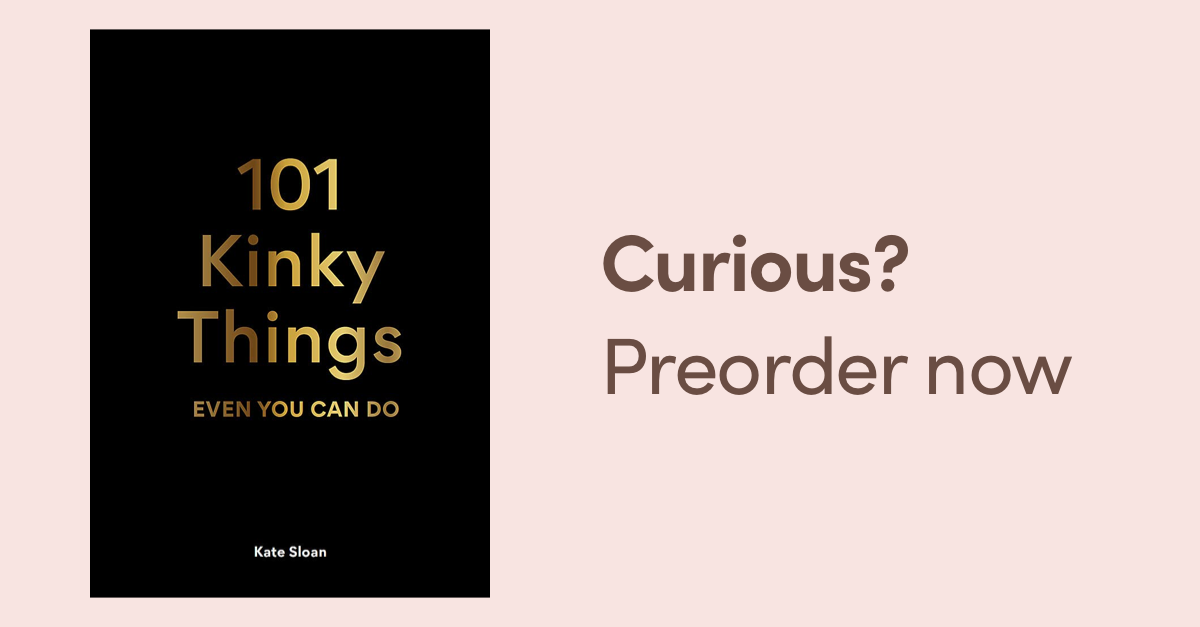
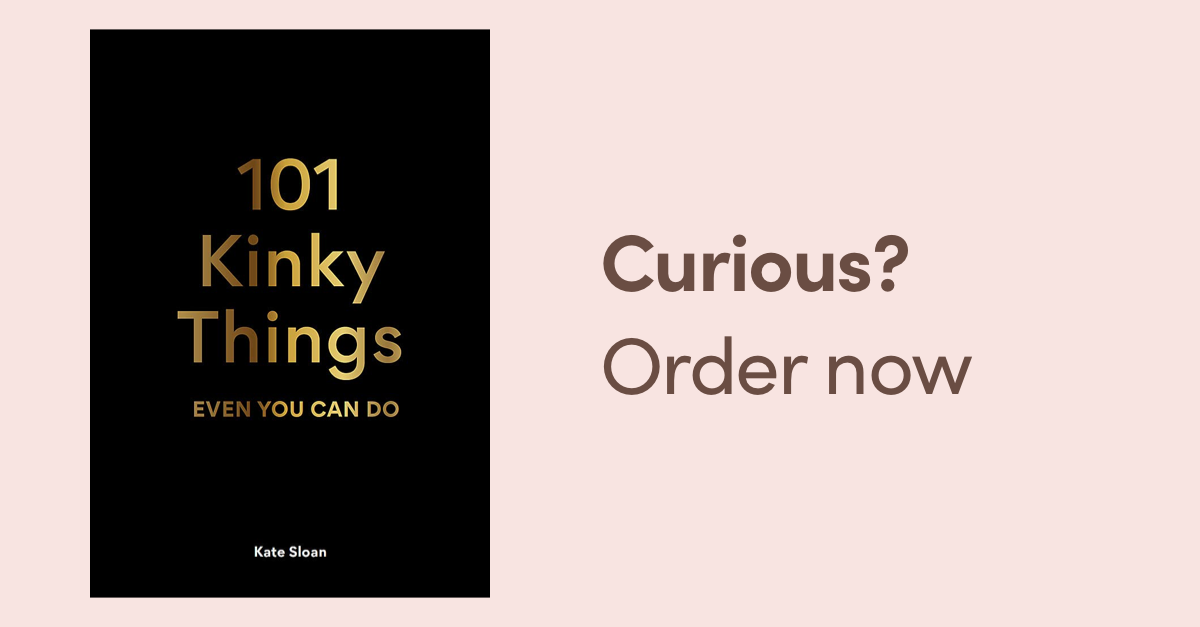
Updates to Now

Changed region(s): [[0.4933, 0.5455, 0.8942, 0.6364]]

diff --git a/index.html b/index.html
@@ -45,13 +45,13 @@
         <h1 class="title">101<br>Kinky<br>Things <span class="subtitle">Even You Can Do</span></h1>
         <h2 class="author">By Kate Sloan</h2>
         <h2 class="illustrator">Illustrations by Ewa Żak</h2>
-        <p>Available October 12, 2021</p>
+        <p>Available now</p>
       </div>
     </section>
 
     <section class="preorder">
 
-      <h2>Preorder now</h2>
+      <h2>Order now</h2>
 
       <ul class="logos">
         <li><a href="https://bookshop.org/a/24457/9781913947217"><img alt="Bookshop" src="img/bookshop.png" /></a></li>
